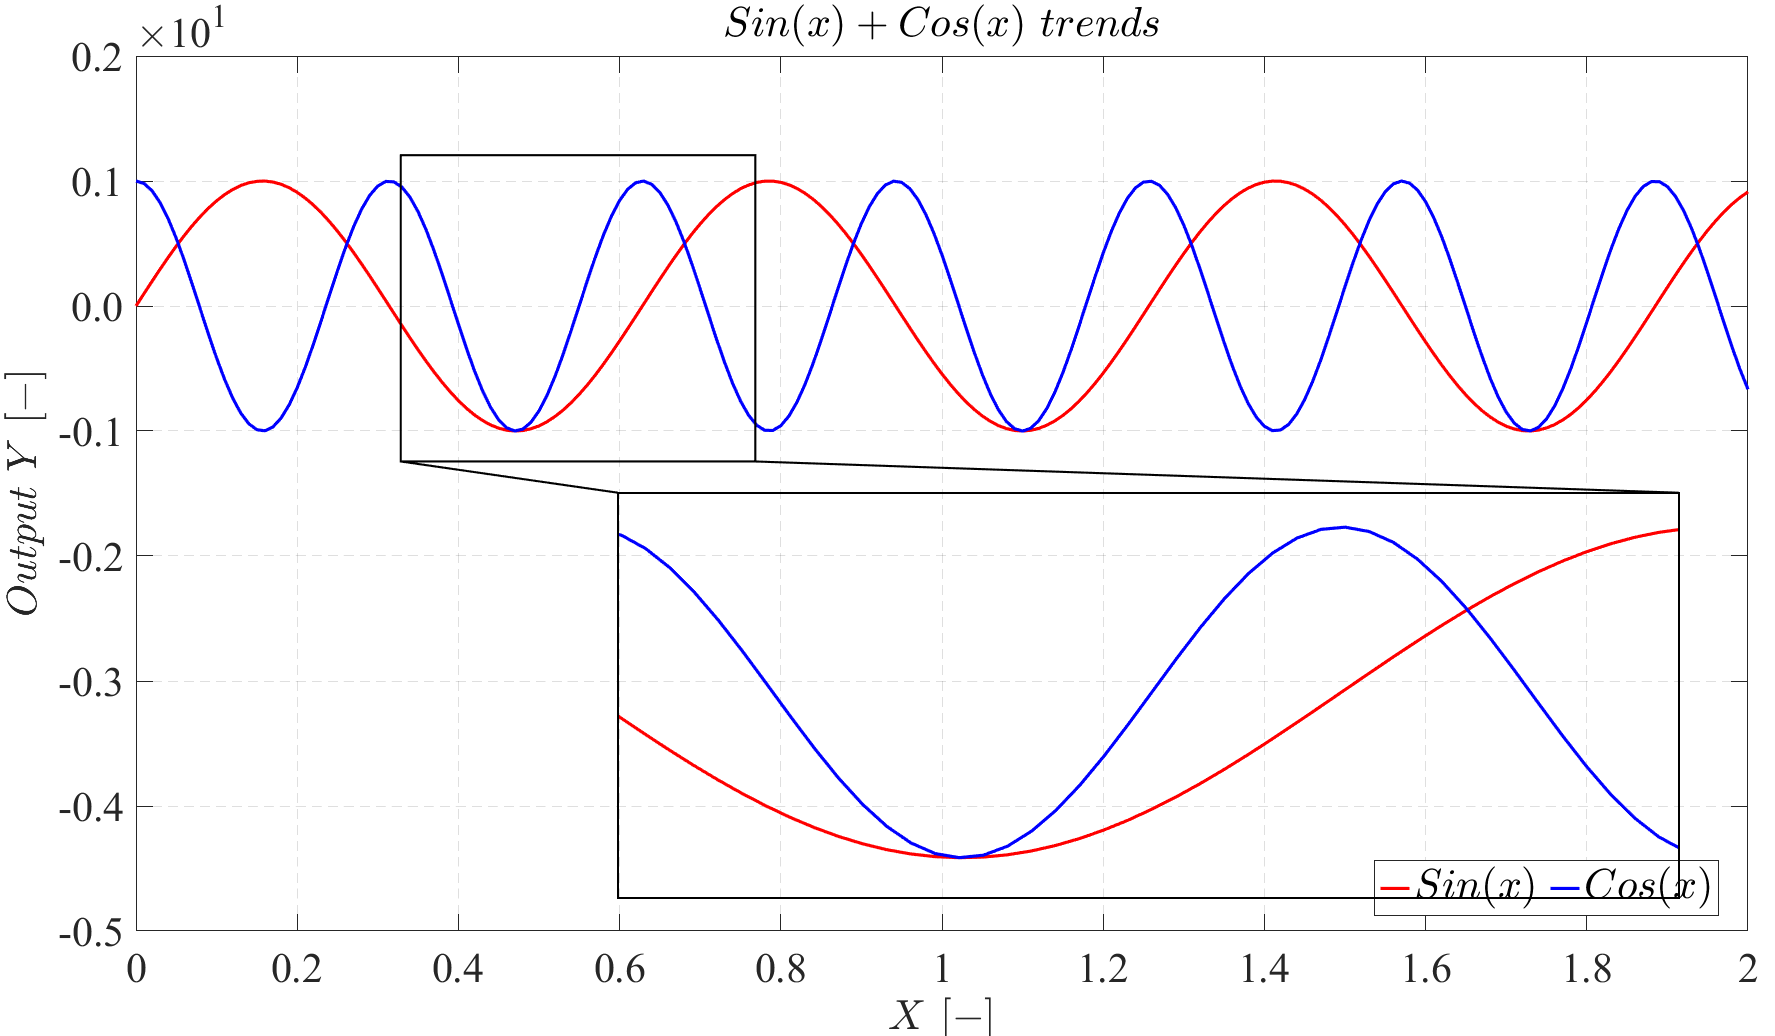
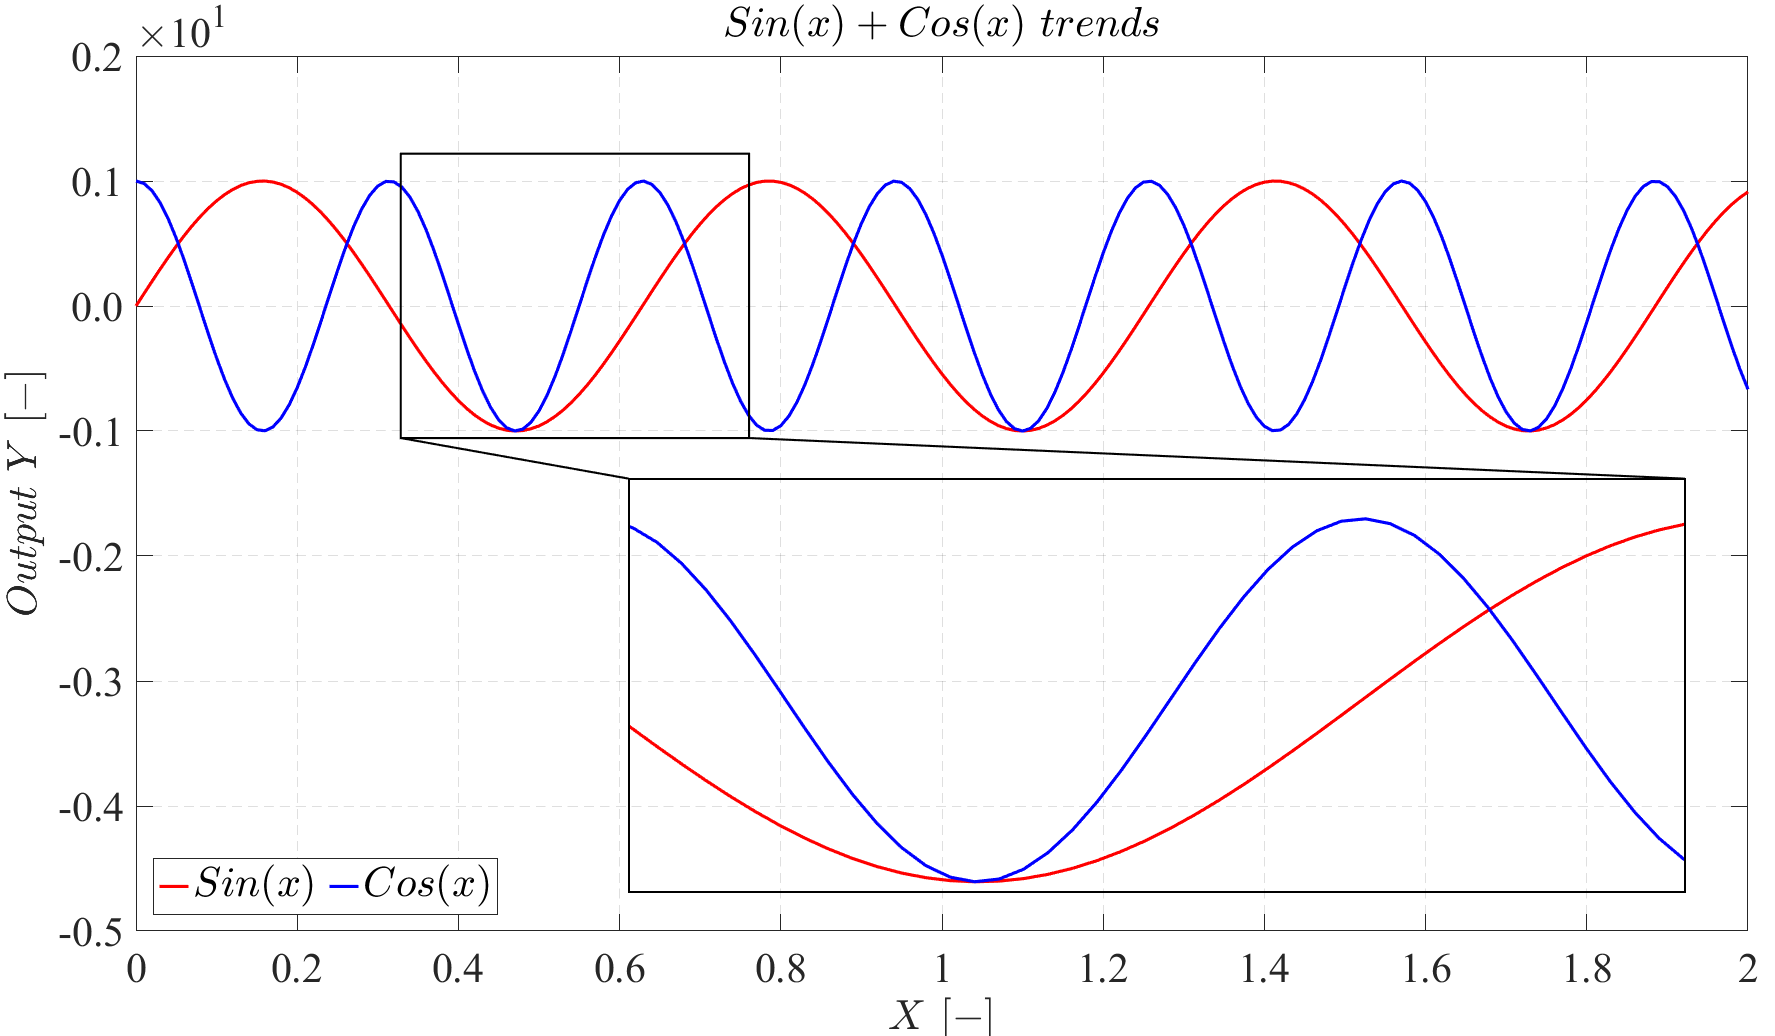
updated readme

diff --git a/script.m b/script.m
@@ -32,7 +32,7 @@ ylabel('$Output\ Y\ [-]$', 'interpreter','latex','FontSize',labels_font_size) % 
 grid on % add grid lines
 set(gca,'GridLineStyle','--') % set grid line style
 
-leg = legend('interpreter','latex','location','best', ...
+leg = legend('interpreter','latex','location','southwest', ...
     'Orientation','horizontal','NumColumns',legend_columns,'FontSize',legend_font_size); % add legend
 leg.ItemTokenSize = [legend_line_width,legened_marker_size]; %set legend marker size and line width, default is line_width=30, marker_size=18 for chaning the line size in legend
 

diff --git a/README.md b/README.md
@@ -1,1 +1,17 @@
-# MATLAB_Professional_Plots
+# MATLAB Professional Plots
+
+- [MATLAB Professional Plots](#matlab-professional-plots)
+
+
+This script is to help researchers and alike produce manuscript-worthy plots in MATLAB without having to do too much work.
+
+it has 3 main components
+- sample plotting practises
+- maximizing plot area using subplotter function
+- adding zoom sub-axis to your plot for magnification
+
+![Single plot image][def]
+
+
+
+[def]: plot_single.png
